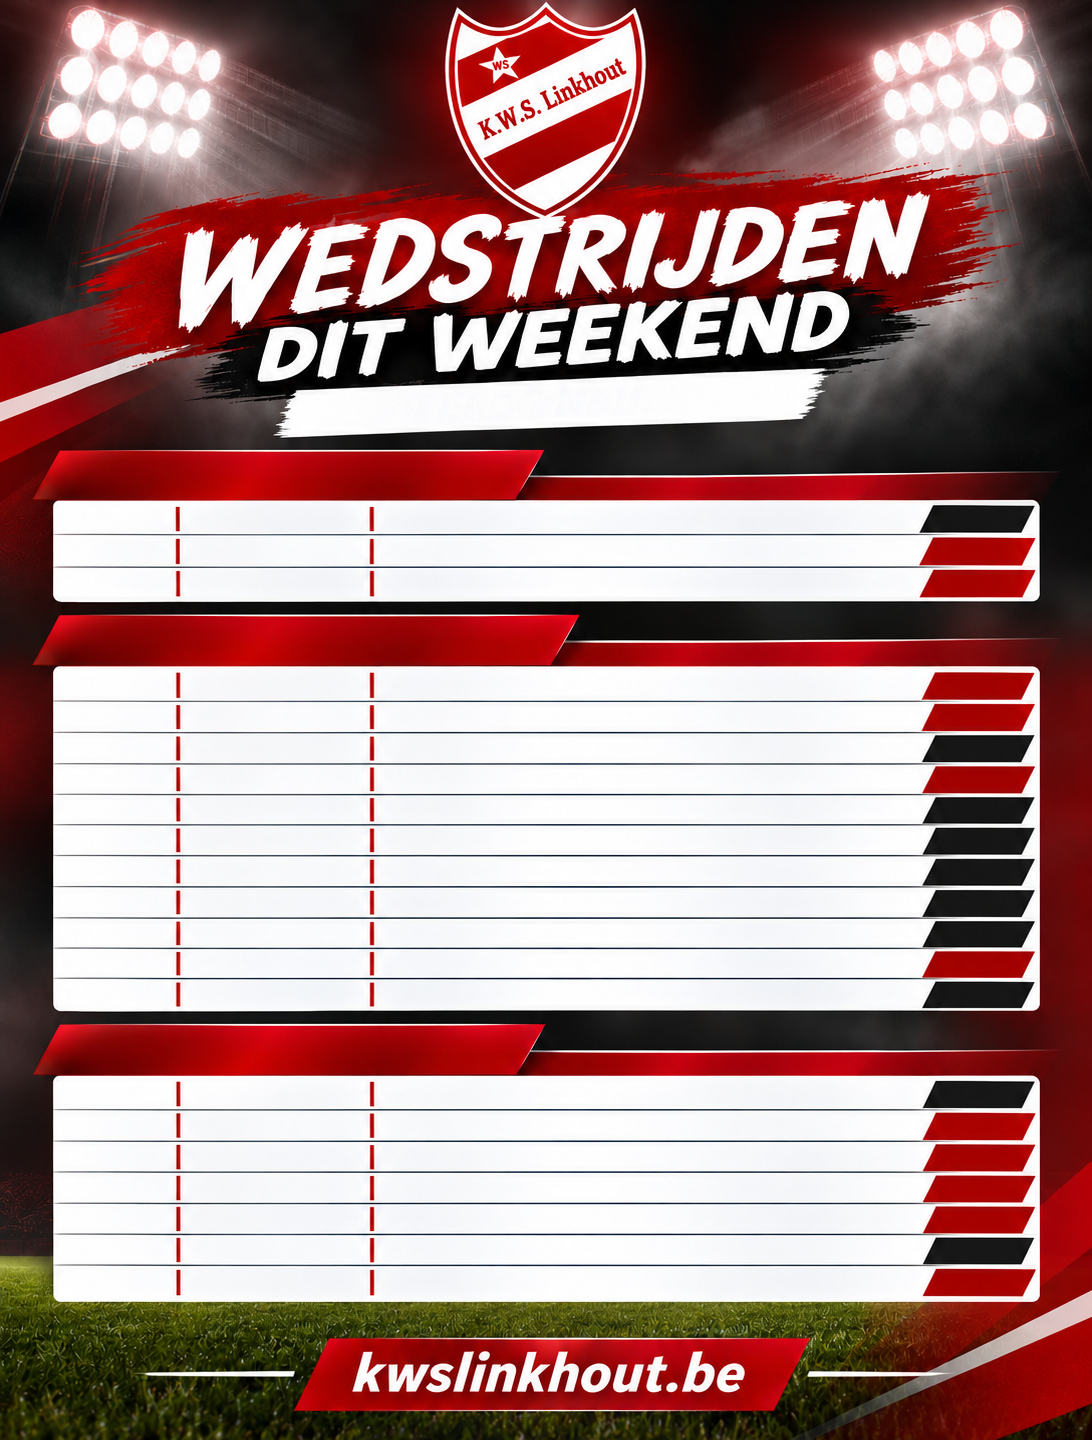
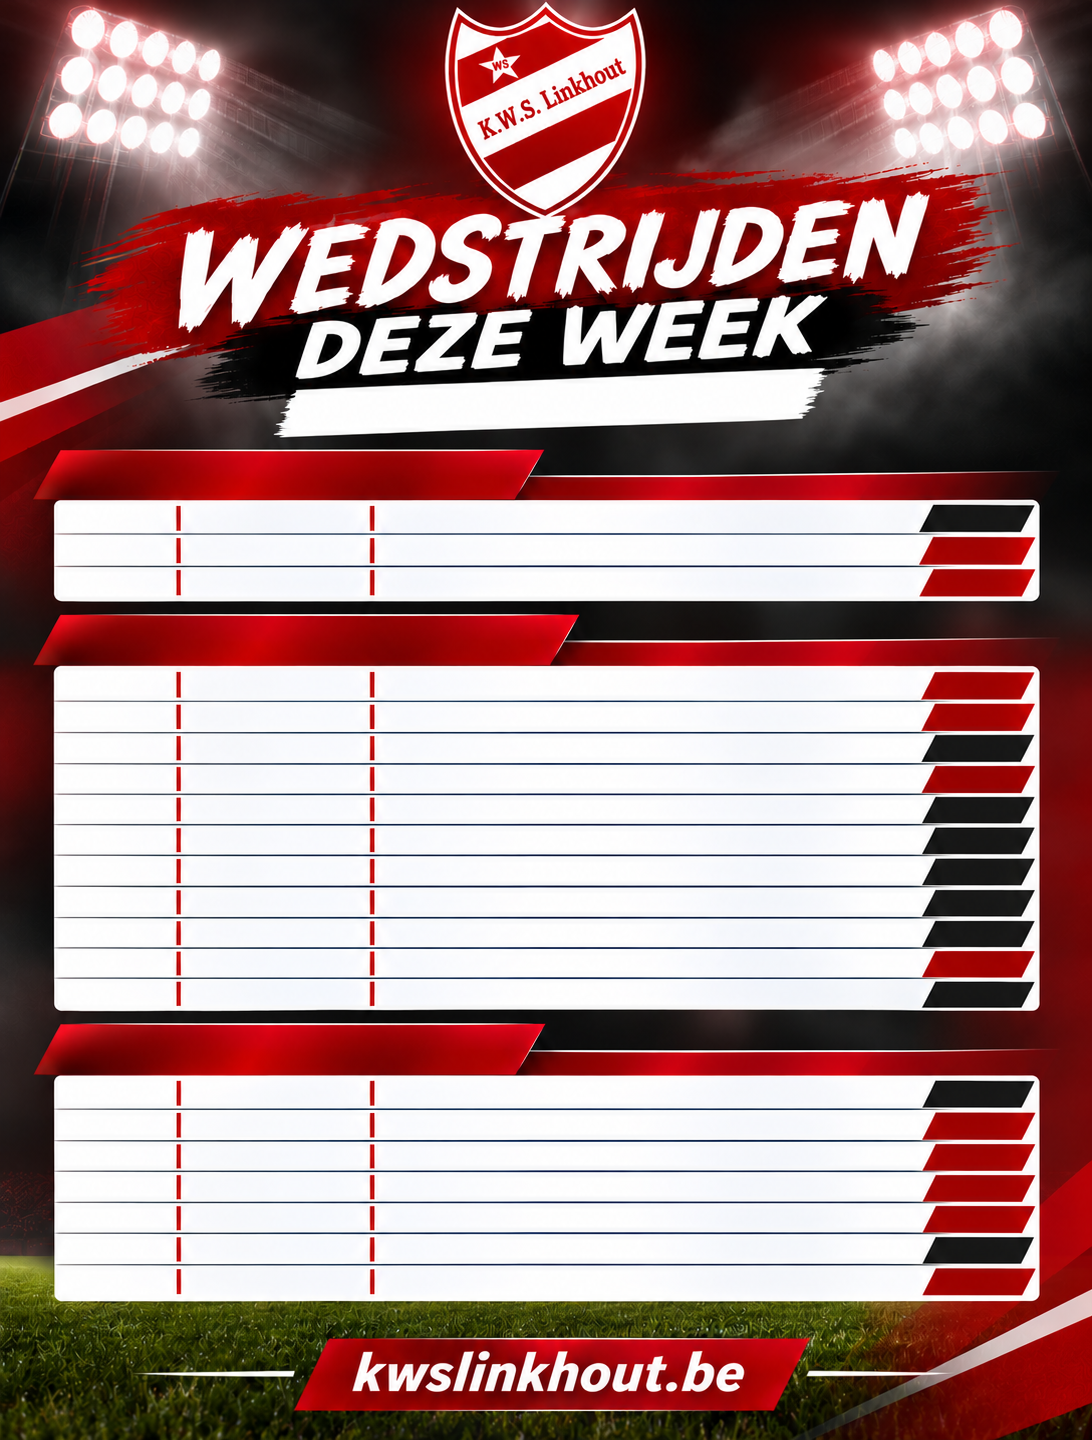
Weekoverzicht: sjabloon met DEZE WEEK

diff --git a/src/app/matchday/weekoverzicht/teken.ts b/src/app/matchday/weekoverzicht/teken.ts
@@ -56,14 +56,14 @@ const SJABLOON = {
   boven: 462,
   onder: 1292,
   /**
-   * Het sjabloon uit ChatGPT (14/11/2026) heeft in het midden nog lege
+   * Het sjabloon uit ChatGPT (16/11/2026, "DEZE WEEK") heeft in het midden nog lege
    * tabellen met een vast aantal rijen. Die dekken we af met een donkere
    * achtergrond, met zachte randen zodat het in het beeld overloopt.
    */
   afdekVan: 440,
   afdekTot: 1314,
   /** Midden van de lege witte band waarin de datums komen. */
-  datumX: 545,
+  datumX: 549,
   datumY: 399,
   datumKleur: "#b71c1c",
 };
